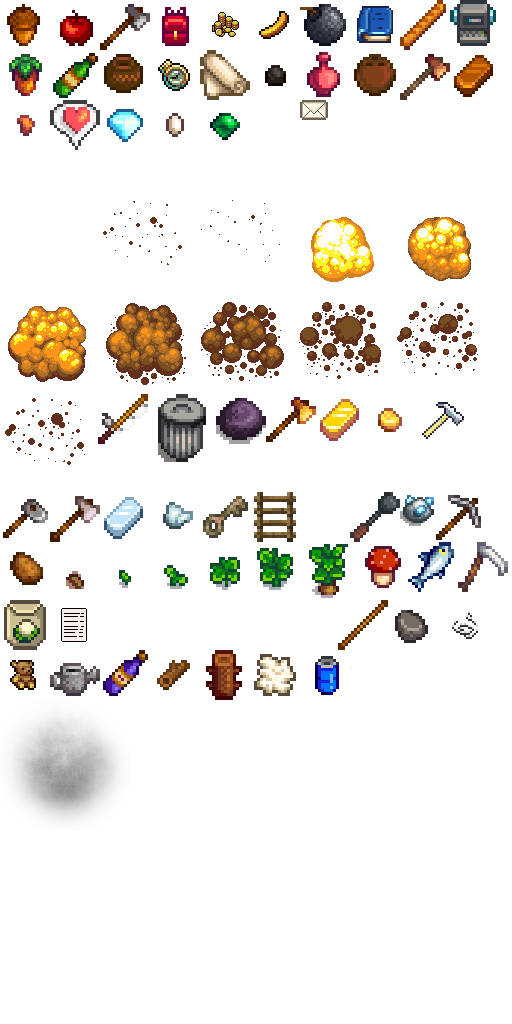
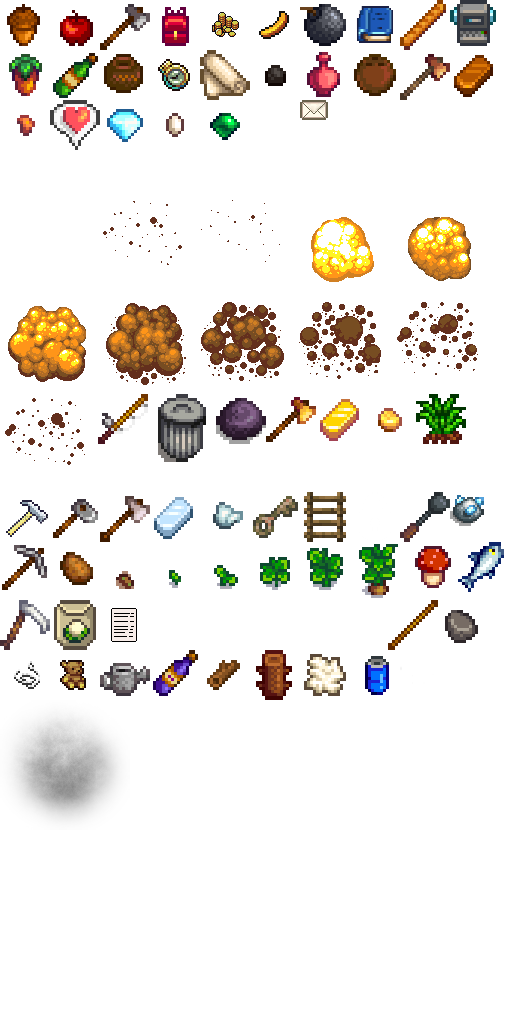
Make shaking grass

Changed region(s): [[0.0, 0.4688, 1.0, 0.6875], [0.5, 0.625, 0.6875, 0.6875], [0.8125, 0.375, 0.9062, 0.4375]]

diff --git a/core/src/com/binarybrains/sprout/entity/terrain/Grass.java b/core/src/com/binarybrains/sprout/entity/terrain/Grass.java
@@ -1,0 +1,111 @@
+package com.binarybrains.sprout.entity.terrain;
+
+import com.badlogic.gdx.graphics.Color;
+import com.badlogic.gdx.graphics.g2d.Batch;
+import com.badlogic.gdx.graphics.g2d.Sprite;
+import com.badlogic.gdx.math.MathUtils;
+import com.badlogic.gdx.math.Vector2;
+import com.badlogic.gdx.utils.TimeUtils;
+import com.binarybrains.sprout.SproutGame;
+import com.binarybrains.sprout.bellsandwhistles.TextParticle;
+import com.binarybrains.sprout.entity.Entity;
+import com.binarybrains.sprout.entity.Mob;
+import com.binarybrains.sprout.entity.PickupItem;
+import com.binarybrains.sprout.entity.Player;
+import com.binarybrains.sprout.item.Item;
+import com.binarybrains.sprout.item.ResourceItem;
+import com.binarybrains.sprout.item.ToolItem;
+import com.binarybrains.sprout.item.resource.Resources;
+import com.binarybrains.sprout.item.tool.PickAxe;
+import com.binarybrains.sprout.item.tool.Scythe;
+import com.binarybrains.sprout.level.Level;
+
+public class Grass extends Entity {
+
+    private Sprite sprite;
+    private int health = 1; // change
+    private boolean isShaking = false;
+    private long startShakeTimer;
+
+    public float defaultShakeRate = 0.03926991f;
+    public float maximumShake = 0.3926991f;
+    public float shakeDecayRate = 0.008975979f;
+
+    public Grass(Level level, float x, float y) {
+
+        super(level, new Vector2(x,y), 16, 16);
+        this.health = 1;
+        sprite = new Sprite(level.spritesheet, 2 * 16, 78 * 16, 16, 16);
+        sprite.setSize(16, 16);
+        sprite.setPosition(getX(), getY());
+
+    }
+
+    public void shake() {
+        startShakeTimer = TimeUtils.nanoTime();
+        isShaking = true;
+    }
+
+    @Override
+    public void updateBoundingBox() {
+        this.box.setWidth(getWidth());
+        this.box.setHeight(getHeight());
+        this.box.setPosition(getPosition());
+        this.walkBox.setWidth(getWidth());
+        this.walkBox.setHeight(getHeight());
+        this.walkBox.setPosition(getPosition());
+    }
+
+    @Override
+    public void containTrigger(Entity entity) {
+        shake();
+    }
+
+    @Override
+    public void update(float deltaTime) {
+        super.update(deltaTime);
+
+        if (isShaking) {
+            if (TimeUtils.nanoTime() < startShakeTimer + 1000000000 * .3) {
+                float currentPower = 16 * deltaTime;
+                float x = (MathUtils.random(0f, 1.1f) - 0.5f) * 2 * currentPower;
+                float y = (MathUtils.random(0f, 1.1f) - 0.5f) * 2 * currentPower;
+                sprite.translate(-x, -y);
+            }
+            else
+            {
+                isShaking = false;
+            }
+        }
+    }
+
+
+    @Override
+    public void hurt(Entity ent, int damage) {
+        health -= damage;
+        if (health < 1) remove();
+        shake();
+
+    }
+
+        @Override
+    public boolean interact(Player player, Item item, Mob.Direction attackDir) {
+
+        if (item instanceof ToolItem) {
+            ToolItem toolItem = (ToolItem) item;
+
+            if (toolItem.tool instanceof Scythe && toolItem.tool.canUse()) {
+
+                hurt(player, toolItem.getDamage());
+                return true;
+            }
+        }
+        return false;
+    }
+
+    public void draw(Batch batch, float parentAlpha) {
+        sprite.draw(batch);
+    }
+
+
+}

diff --git a/core/src/com/binarybrains/sprout/level/Level.java b/core/src/com/binarybrains/sprout/level/Level.java
@@ -29,6 +29,7 @@ import com.binarybrains.sprout.entity.furniture.Chest;
 import com.binarybrains.sprout.entity.misc.Mail;
 import com.binarybrains.sprout.entity.npc.Emma;
 import com.binarybrains.sprout.entity.npc.Npc;
+import com.binarybrains.sprout.entity.terrain.Grass;
 import com.binarybrains.sprout.entity.terrain.Stone;
 import com.binarybrains.sprout.experience.LevelRank;
 import com.binarybrains.sprout.item.ArtifactItem;
@@ -140,6 +141,13 @@ public class Level extends LevelEngine {
 
         add(this, player);
         add(this, new Chest(this, new Vector2(16 * 22, 16 * 110)));
+
+        for (int i = 0; i < 30; i++) {
+            float x = MathUtils.random(1,64);
+            float y = MathUtils.random(1,64);
+            add(this, new Grass(this, (15 * 22)+x, (15 * 105)+y));
+
+        }
 
         // add player mail
         // add(this, new Mail(this, new Vector2(13*16f,1540f)));
